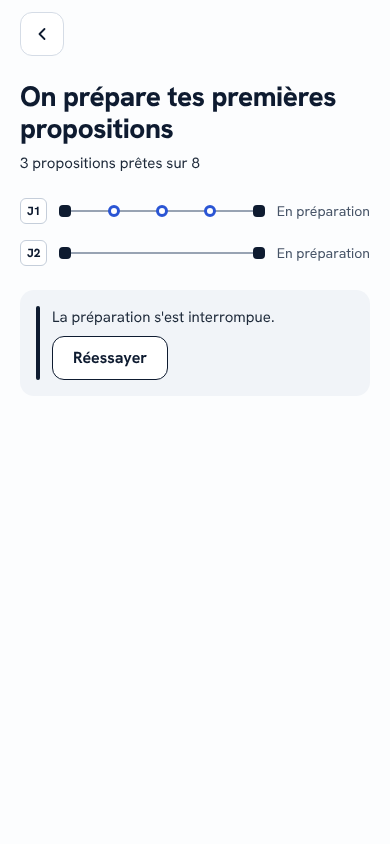
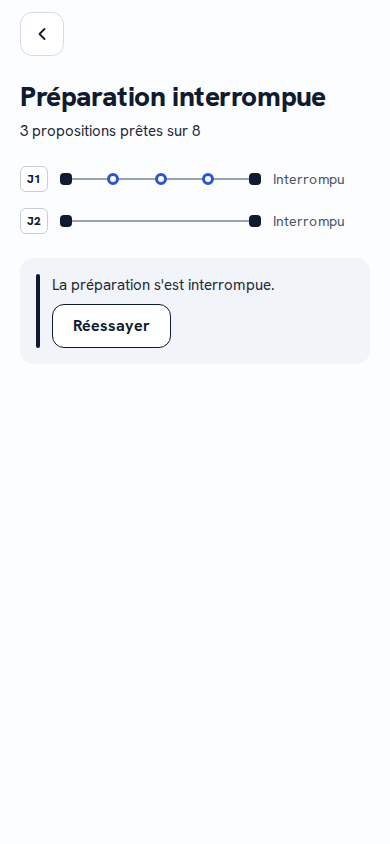
[front] F8c : textes provisoires consignés dans la spécification, mineurs de la revue
- specs/F8-creation-compte.md : écran 5 en erreur (titre « Préparation
  interrompue », jours « Interrompu » en corps-s ink-soft, focus au titre après
  « Réessayer »), règle de largeur de la colonne d'état, textes de R-lancer
  (« On crée ton voyage », « Création de ton voyage… ») ; tous provisoires, en
  attente des maquettes UX (Q12).
- TripIdSchema importé de billing.ts ; commentaire sur le conflit reconstruit
  dans createTrip ; « Voir mes voyages » en size="sm" (erreur définitive, état
  non capturé).
- docs/ux/captures/F8c : PNG copiés des références publiées (58ac983).

Claude-Session: https://claude.ai/code/session_01CnKUY6tgdQH2121ZnMWsMg

Changed region(s): [[0.0308, 0.0924, 0.9538, 0.4621]]

diff --git a/src/server/actions/creation.ts b/src/server/actions/creation.ts
@@ -114,6 +114,9 @@ export async function createTrip(input: unknown): Promise<Result<CreatedTrip>> {
     return fail("provider_error");
   }
   if (!result.ok && result.error.code === "active_preview_exists") {
+    // Le conflit est reconstruit avec `code` et `activeTripId` seulement : `retryable` et `field` éventuels de
+    // l'adaptateur sont écartés (rien à rejouer ni à corriger dans le brouillon), comme les autres erreurs ramenées à
+    // leur code ci-dessous.
     const conflict = ApiErrorSchema.safeParse({ code: "active_preview_exists", activeTripId: result.error.activeTripId });
     return conflict.success ? { ok: false, error: conflict.data } : fail("provider_error");
   }

diff --git a/src/contracts/creation.ts b/src/contracts/creation.ts
@@ -1,5 +1,6 @@
 import { z } from "zod";
 
+import { TripIdSchema } from "./billing";
 import { CategorySchema } from "./category";
 import { IsoDateSchema, TimeSchema } from "./trip";
 import {
@@ -21,7 +22,6 @@ import {
   MOBILITY_MODES,
   PACES,
   STORY_LENGTH,
-  TRIP_ID_PATTERN,
   type BriefField,
 } from "./values";
 
@@ -249,8 +249,6 @@ export type LodgingSuggestion = z.infer<typeof LodgingSuggestionSchema>;
 /*
  * Lancement et écran 5 « Propositions prêtes » (0017 § 2.4, F8c).
  */
-
-const TripIdSchema = z.string().regex(TRIP_ID_PATTERN);
 
 /**
  * Demande de `createTrip` (0017 § 2.4) : `requestId` créé une fois par brouillon (idempotence par organisation et

diff --git a/src/features/creation/PreparationView.tsx b/src/features/creation/PreparationView.tsx
@@ -130,7 +130,7 @@ export function PreparationView({ tripId, initial, recorderKind = "none", record
                   {t.reessayer}
                 </Button>
               ) : (
-                <Button variant="text" asChild className="px-0">
+                <Button variant="text" size="sm" asChild className="px-0">
                   <Link href={mesVoyagesRoute()}>{t.voirMesVoyages}</Link>
                 </Button>
               )

diff --git a/specs/F8-creation-compte.md b/specs/F8-creation-compte.md
@@ -195,6 +195,7 @@ Deux états sur la même route, sans changement d'adresse (le récit ne passe ja
   4. **Navigation avec la valeur normalisée** : la fonction renvoie une chaîne reconstruite à partir de la forme reconnue (par exemple `` `/voyages/${id}/preparation` ``), et c'est elle seule que l'écran 4 passe à `router.replace` et que « Retour » compare à `R-lancer` ; la valeur brute n'est jamais utilisée pour naviguer ni rendue.
   `suite` ne contient jamais l'email, le récit ni aucune donnée du brouillon.
 - **Lancement** (`R-lancer`, sous réserve de F8-TL-5) : depuis la création, `suite` vaut `R-lancer`. Cette étape sans écran appelle `createTrip` avec le brouillon et un `requestId` créé une seule fois par brouillon, puis remplace l'adresse par `/voyages/{id}/preparation` (sans nouvelle entrée d'historique). Un second appel avec le même `requestId` renvoie le même voyage (idempotence). La clé d'idempotence est le couple **(organisation de la session, `requestId`)** : un même `requestId` présenté par une autre organisation ne renvoie jamais le voyage de la première (il crée le voyage de la seconde, ou échoue), pour qu'un identifiant deviné ou rejoué ne donne accès à rien. Erreur `active_preview_exists` (un aperçu actif à la fois par compte, cadrage § 4) : `StatusBanner` `conflict` « Tu as déjà des propositions en préparation. » avec le lien « Voir ces propositions » vers ce voyage (0018 § 18) ; autres erreurs : `StatusBanner` `error` avec « Réessayer », brouillon conservé.
+  - **Textes de `R-lancer`** (provisoires, en attente des maquettes UX, Q12 ; revue de F8c) : titre de niveau 1 « On crée ton voyage » ; pendant l'appel à `createTrip`, « Création de ton voyage… » dans la région `role="status"` (`corps-s`, `ink-soft`) ; titre du document « Nouveau voyage · Création ». « Retour » est inactif pendant l'appel, qui est déjà parti. Après « Réessayer », le focus va au titre.
 - **Garde du lancement** : `R-lancer` vérifie, avant tout appel à `createTrip`, qu'un brouillon complet est en mémoire (écrans 1 et 2 validés, et écran 3 pour chaque ville « Pas encore ») et qu'une session existe (`getSession`). Sans brouillon complet : l'adresse est remplacée par `R1` avec l'annonce « Ton brouillon n'a pas été conservé. Recommence à partir de la destination. » ; sans session (brouillon présent) : l'adresse est remplacée par `R4(R-lancer)`. Dans les deux cas, **aucun appel à `createTrip`** et aucun voyage créé. Cette garde est un confort d'interface : `createTrip` vérifie lui-même la session côté serveur (F8-PO-17). Une ouverture directe ou un rechargement de `R-lancer` relève du premier cas, puisque le brouillon ne survit pas au rechargement (F8-PO-1).
 - Mentions légales à la création du compte (politique de confidentialité, conditions) : non rendues dans F8 (F8-Q2).
 
@@ -207,6 +208,8 @@ Deux états sur la même route, sans changement d'adresse (le récit ne passe ja
 - **Prêtes** (`ready` = `expected`, ou phase terminée) : « Voir mes propositions » (`primary`, lien vers `/voyages/[id]/presentation`, F6) et « Passer, voir le programme » (`text`, lien vers `/voyages/[id]`, F5) (cadrage § 3.1 et § 3.3) ; le focus reste où il est ; pas de redirection automatique (la présentation est proposée d'office, pas imposée).
 - **Aperçu incomplet** (B0 PO-6) : si la génération se termine avec `ready` < `expected`, l'écran affiche ce qui est prêt et `StatusBanner` `noOption` « {expected − ready} propositions n'ont pas trouvé de lieu compatible. », au singulier « 1 proposition n'a pas trouvé de lieu compatible. » (0018 § 19) ; les deux liens restent disponibles.
 - **Erreur** (`retryable: true`) : `StatusBanner` `error` « La préparation s'est interrompue. » avec « Réessayer » ; `retryable: false` (plafond atteint) : même bandeau sans « Réessayer », avec « Voir mes voyages » (provisoire).
+  - **Titre et jours en erreur** (provisoire, en attente des maquettes UX, Q12 ; revue de F8c) : tant que le bandeau `error` est affiché (échec réparable ou définitif, ou interrogation en échec), le titre de niveau 1 devient « Préparation interrompue » et l'état de chaque jour non prêt devient « Interrompu » (`corps-s`, `ink-soft`, comme « En préparation »). Un jour déjà prêt garde « Jour {n} prêt ». Après « Réessayer », le bandeau disparaît, le focus va au titre (WCAG 2.4.3) et le titre et les jours reviennent à « On prépare tes premières propositions » et « En préparation ».
+  - **Largeur de la colonne d'état** (provisoire, Q12) : la colonne des états de jour garde la largeur du plus long libellé possible (« Jour {n} prêt » en gras et « En préparation »), quel que soit l'état affiché. Les mini-lignes ne changent donc pas de longueur quand un jour devient prêt ou que la préparation s'interrompt. La réserve est invisible et hors de l'arbre d'accessibilité.
 - Fermer l'onglet ou recharger ne perd rien : l'état vient de l'adaptateur. L'email « propositions prêtes » n'est pas envoyé (Q25).
 
 ## Événements de mesure (handover § 12)

diff --git a/docs/ux/captures/F8c/README.md b/docs/ux/captures/F8c/README.md
@@ -1,8 +1,8 @@
 # Captures F8c (390 × 844)
 
-Écran 5 et bandeaux de `R-lancer`, non maquettés (Q12). Les PNG de ce répertoire sont des copies locales pour la PR ;
-les références de la CI sont dans `tests/visual/__screenshots__` (décision 0004), publiées par `visual-update`
-(commit 580fe72, `--update-snapshots=all`).
+Écran 5 et bandeaux de `R-lancer`, non maquettés (Q12). Les PNG de ce répertoire sont des copies, pour la PR, des
+références de la CI de `tests/visual/__screenshots__` (décision 0004), publiées par `visual-update` (580fe72, puis 58ac983,
+`--update-snapshots=all`).
 
 ## Références nouvelles (6)
 
@@ -36,4 +36,5 @@ le code. La capture attend désormais un état stable : « Continuer sans logeme
 - `lancement-conflit.png` (« Voir ces propositions » en `size="sm"`, mineur UX 6) et `lancement-erreur.png` : écarts
   sous la tolérance, réécrits par `--update-snapshots=all`.
 
-`preparation-en-cours.png` est inchangée. Les PNG de ce répertoire montrent l'état d'avant ces corrections.
+`preparation-en-cours.png` est inchangée. Les PNG de ce répertoire sont des copies des références de la CI
+(`tests/visual/__screenshots__`, 58ac983), sans régénération (revue de 6a9f2a3, mineur TL 3).
